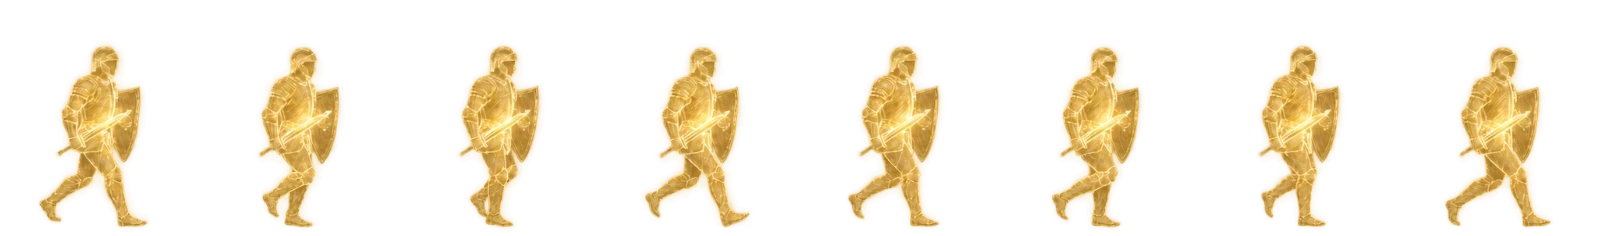
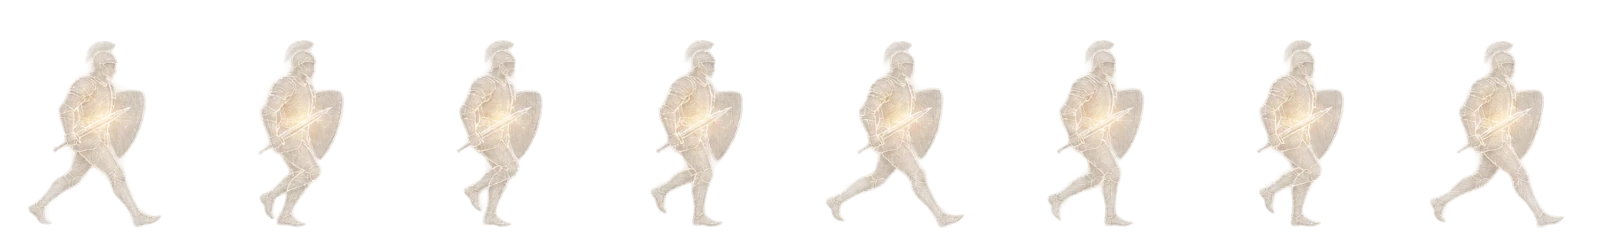
Switch soldiers to the pale glowing walk cycle
The new sheet's semi-transparent haze is keyed out by its alpha level;
stride and cadence are retuned to its longer steps.

diff --git a/index.html b/index.html
@@ -56,7 +56,7 @@
 
   /* ground, distant hills and the marching column live in one SVG */
   #land { position: absolute; inset: 0; width: 100%; height: 100%; overflow: visible; }
-  .soldiers { filter: drop-shadow(0 0 1px rgba(40,22,0,.55)) drop-shadow(0 0 8px rgba(255,200,90,.45)); }
+  .soldiers { filter: drop-shadow(0 0 1px rgba(30,18,10,.6)) drop-shadow(0 0 8px rgba(255,214,140,.5)); }
   .stepglow { fill: url(#stepGrad); }
 
   /* ── question + verse ── */
@@ -755,15 +755,15 @@
     var CW = 200, CH = 236, AX = 100, AY = 226, FRAMES = 8;
     // helmet-to-sole height of the soldier in each sheet, so all stand equally tall
     var ROLE = {
-      sword:  { src: "soldiers/sword.webp",  figH: 180 },
+      sword:  { src: "soldiers/sword.webp",  figH: 186 },
       spear:  { src: "soldiers/spear.webp",  figH: 168 },
-      banner: { src: "soldiers/banner.webp", figH: 154 }
+      banner: { src: "soldiers/banner.webp", figH: 155 }
     };
     var ROLES = ["sword", "spear", "sword", "banner", "spear", "sword", "spear", "sword", "banner", "spear"];
     var BASE_PX = 140;         // on-screen height at 1×
     var GAP = 0.66;            // spacing between soldiers, in figure heights
-    var PACE = 0.6;            // figure heights travelled per second at 1×
-    var CYCLE = 0.75;          // ground covered by one 8-frame cycle (two steps), in figure heights
+    var PACE = 0.85;           // figure heights travelled per second at 1×
+    var CYCLE = 1.1;           // ground covered by one 8-frame cycle (two steps), in figure heights
 
     var troops = [];
     var dist = 0, last = 0;

diff --git a/README.md b/README.md
@@ -14,7 +14,7 @@
 - **동틀녘 하늘** — 위는 별이 반짝이는 깊은 밤, 아래로 갈수록 보랏빛·주홍빛으로 밝아지고
   해는 보이지 않고 지평선만 주황빛으로 물들어 있습니다. 왼편 하늘에는 샛별이 빛납니다.
 - **응답(어둠의 일)** — 밤하늘 영역에 떠다닙니다. 같은 답이 반복되면 더 크고 굵어집니다.
-- **빛의 갑옷을 입은 병사들** — 금빛 병사 8프레임 걷기 애니메이션입니다.
+- **빛의 갑옷을 입은 병사들** — 은은하게 빛나는 병사 8프레임 걷기 애니메이션입니다.
   검·방패병, 창병, 깃발병 10명이 발맞춰 오른쪽으로 행진하며, 프레임은 이동 거리에 맞춰 넘어가
   디딘 발이 미끄러지지 않습니다. 스프라이트는 `soldiers/sword.webp`, `soldiers/spear.webp`,
   `soldiers/banner.webp` (프레임당 200×236 × 8장, 발끝 y=226)입니다.
